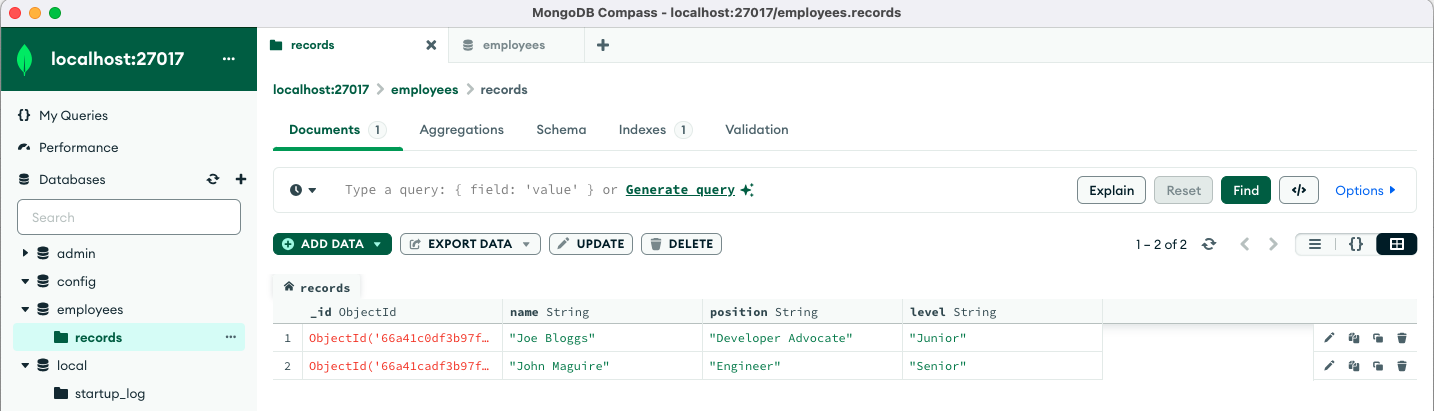
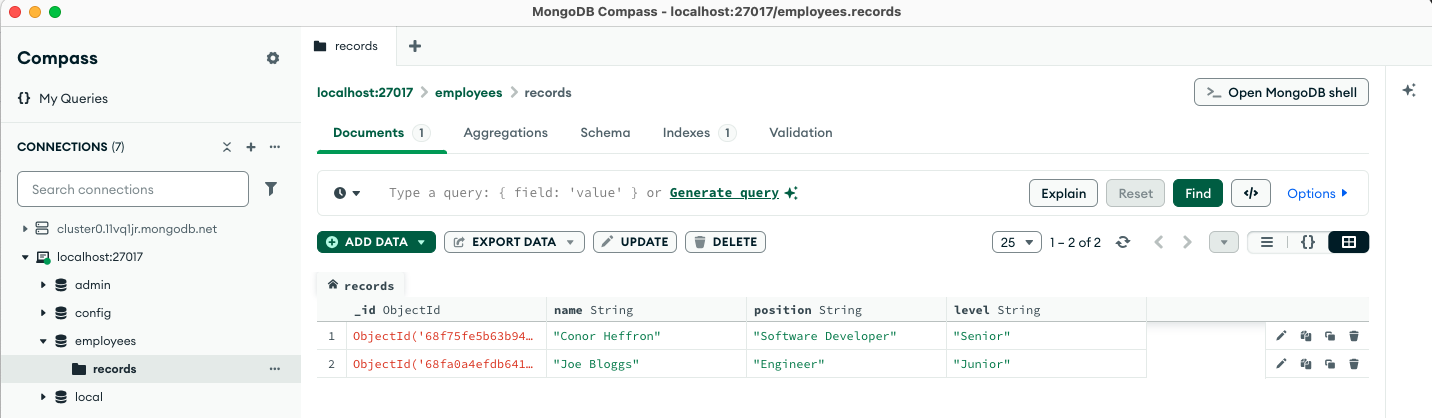
Release v1.2.6, Update screenshots, bump app version, Update dependencies (#37)
* #36 Update screenshots, bump app version, Update dependencies

* Update README.md

diff --git a/README.md b/README.md
@@ -1,6 +1,6 @@
 # mern-sandbox
 
-## Install MongoDB Community Version & Run Server
+#### Install MongoDB Community Version & Run Server
 ```
 docker pull mongodb/mongodb-community-server:latest
 docker run --name mongodb -p 27017:27017 -d mongodb/mongodb-community-server:latest
@@ -8,11 +8,11 @@ docker run --name mongodb -p 27017:27017 -d mongodb/mongodb-community-server:lat
 
 ![docker-ps](./screenshots/docker-ps.png?raw=true "Docker Processes")
 
-## Use MongoDB Compass Client to verify DB & Data
+#### Use MongoDB Compass Client to verify DB & Data
 
 ![compass-client](./screenshots/compass.png?raw=true "Compass Client")
 
-### Start server:
+##### Start backend server in VS Code & see logs per CRUD operation
 ```
 cd mern-sandbox/server
 npm install
@@ -21,7 +21,7 @@ npm start
 
 ![run-server](./screenshots/run-server.png?raw=true "Run Backend")
 
-### Start Web server
+##### Start Web/Client server in VS Code (new terminal tab)
 ```
 cd mern-sandbox/client
 npm install
@@ -30,7 +30,7 @@ npm run dev
 
 ![run-client](./screenshots/run-client.png?raw=true "Run Frontend")
 
-### View UI
+#### View UI (use `chrome dev tools` to see client side logging)
 ```
 http://localhost:5173/
 ```
